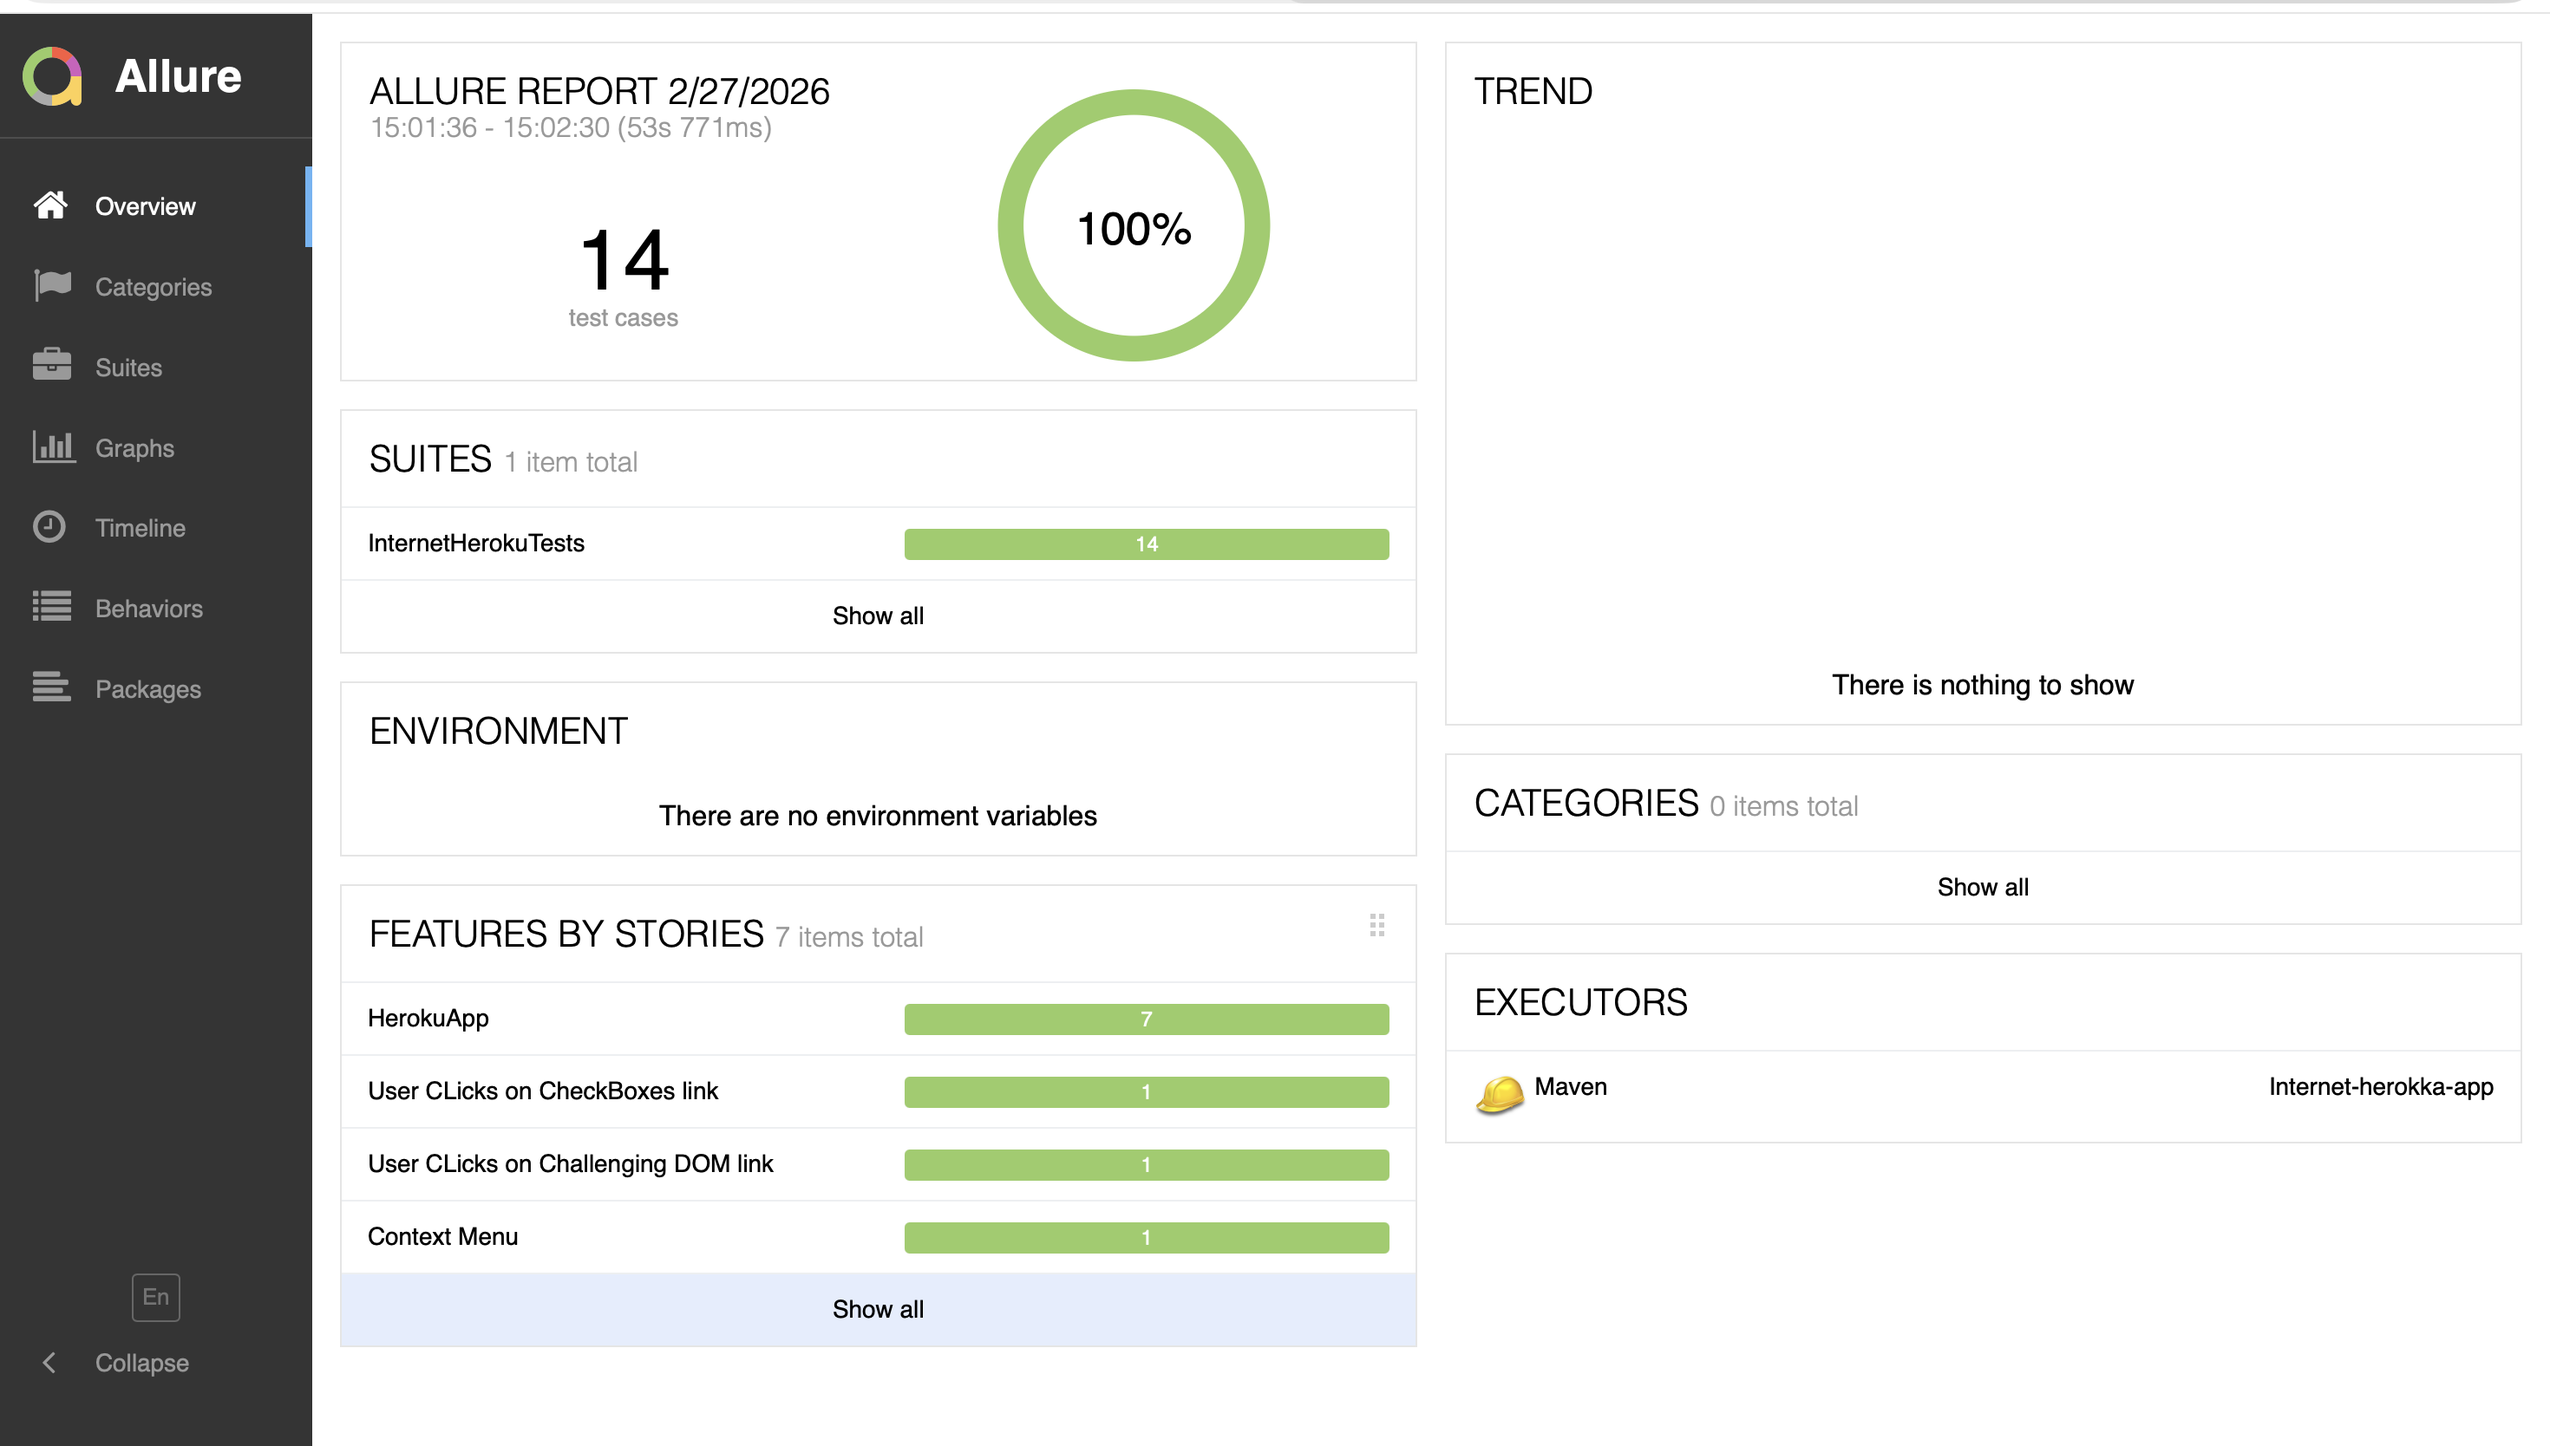
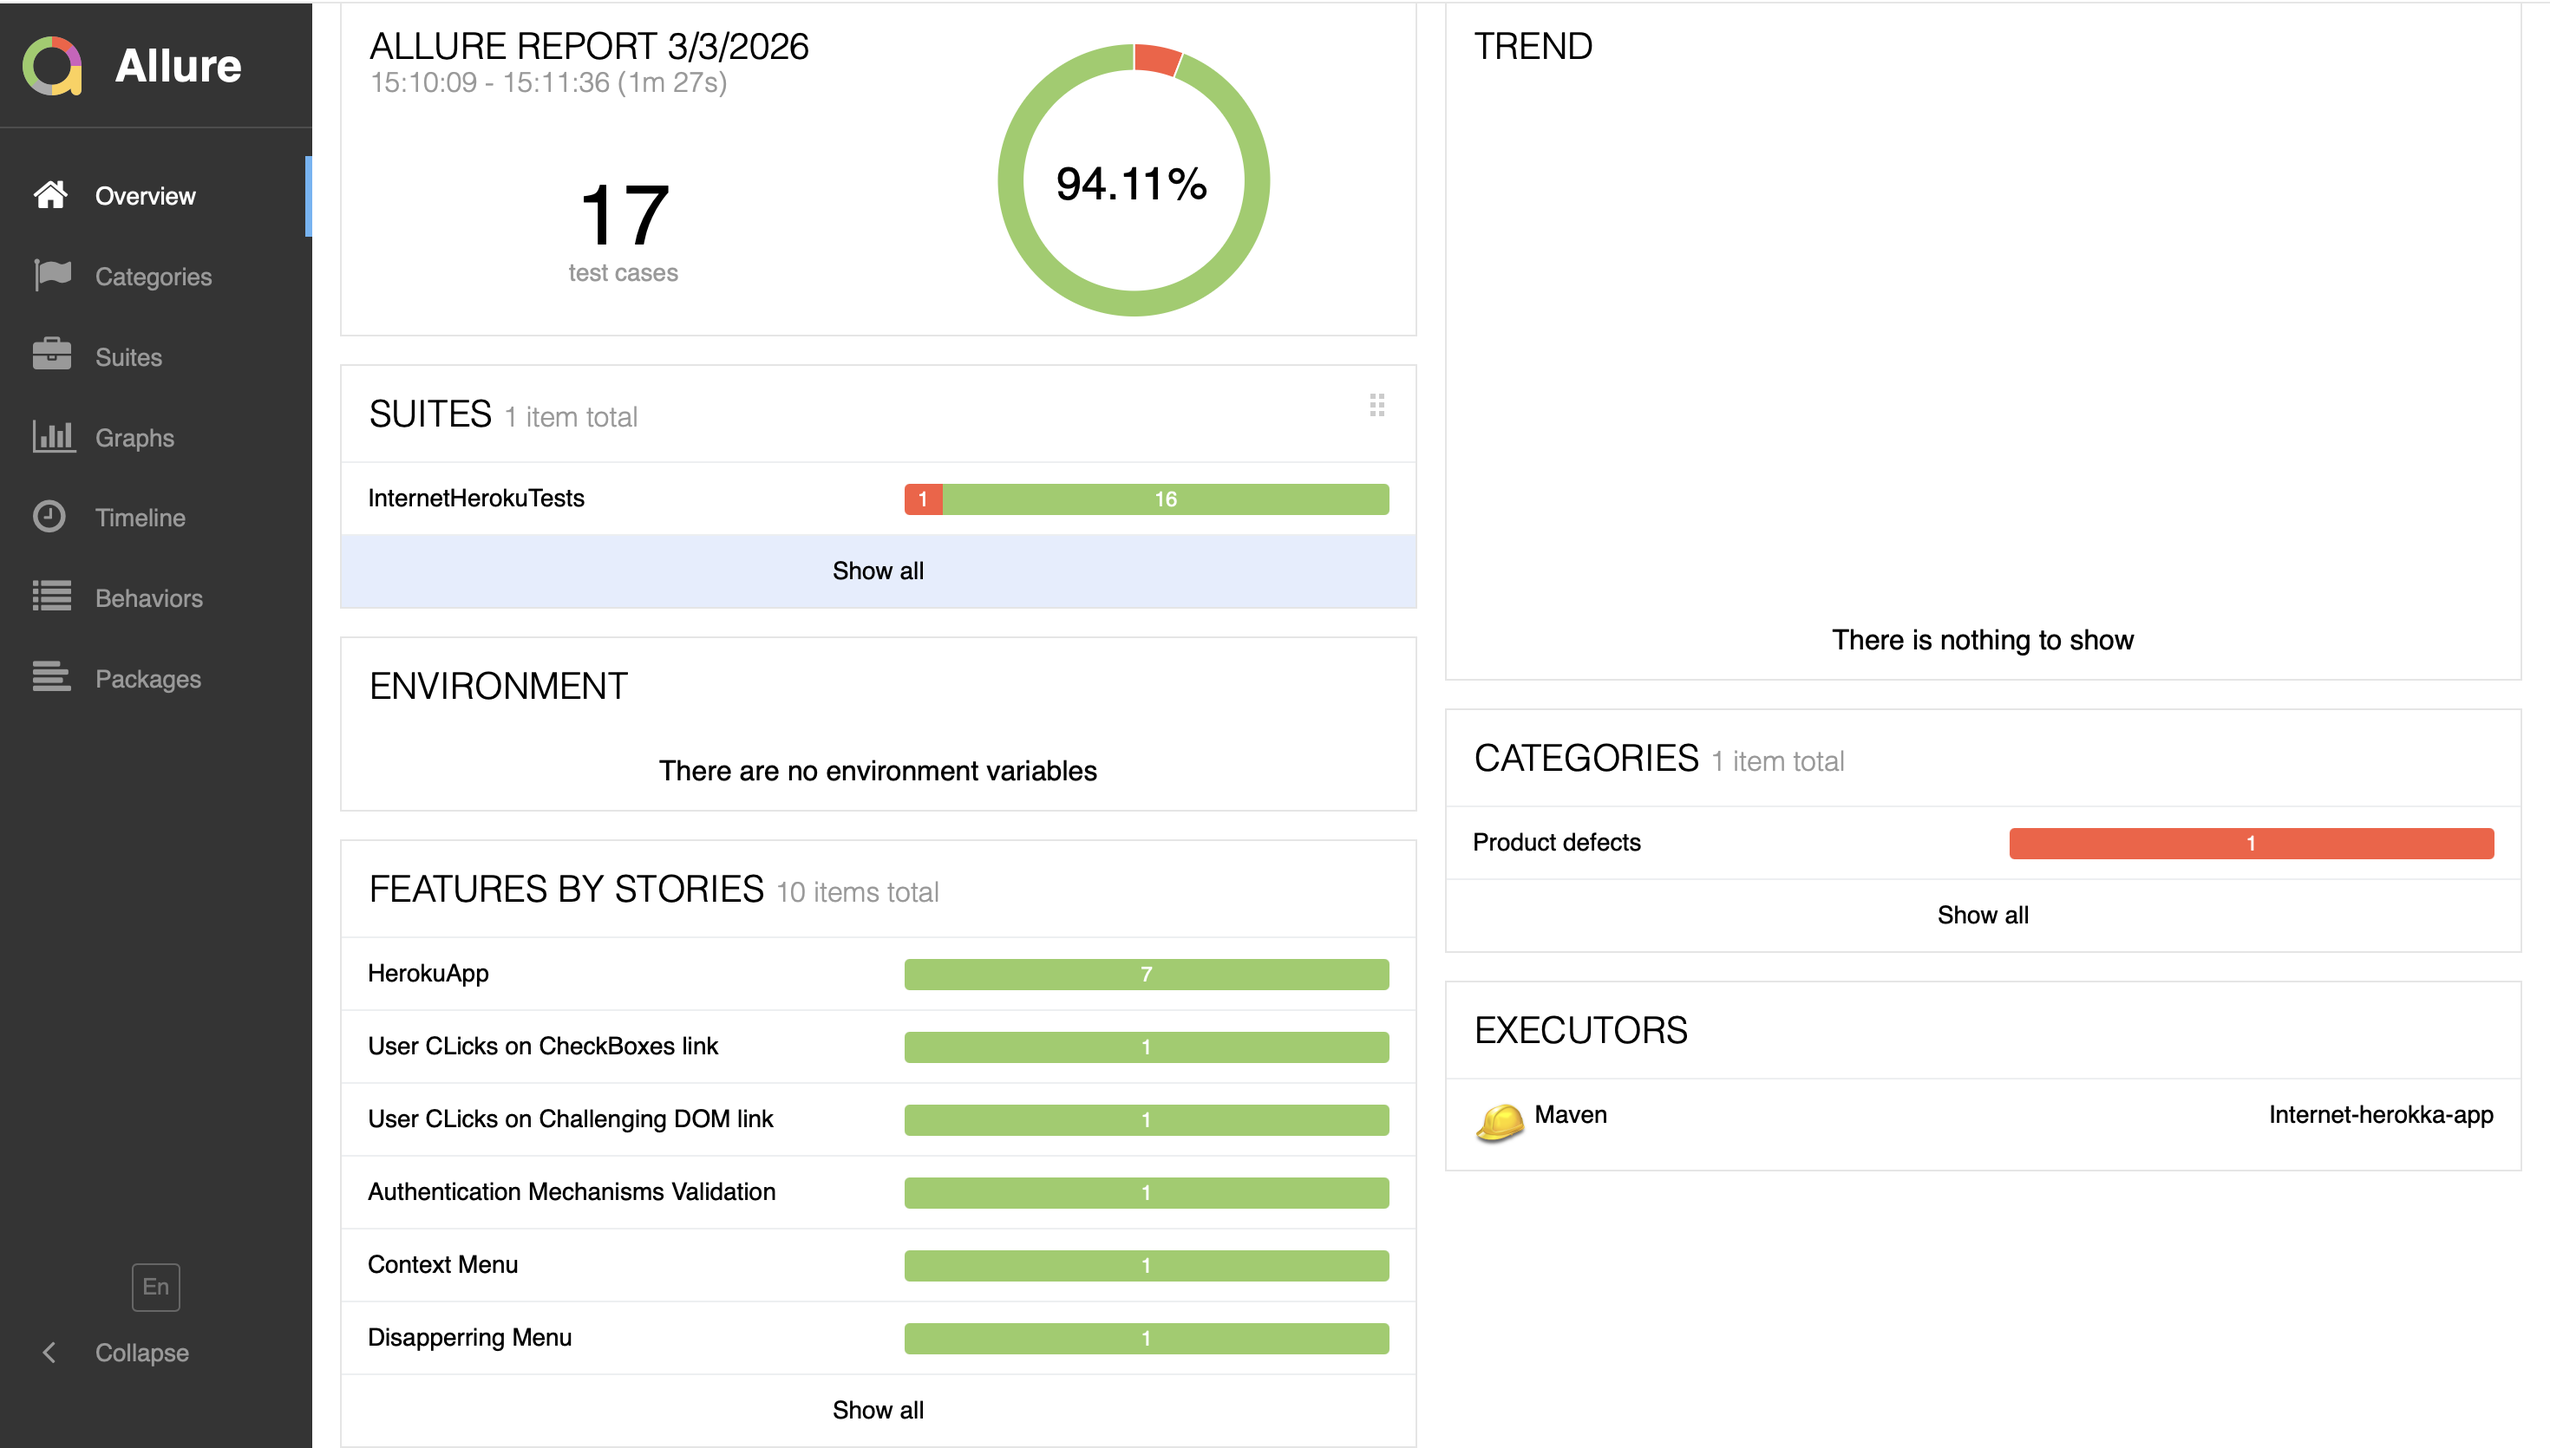
added features dissappearing elements

diff --git a/src/test/java/disappearingElements/DisappearingElementTest.java b/src/test/java/disappearingElements/DisappearingElementTest.java
@@ -1,0 +1,52 @@
+package disappearingElements;
+
+import base.BaseTest;
+import io.qameta.allure.Epic;
+import io.qameta.allure.Feature;
+import org.testng.Assert;
+import org.testng.annotations.BeforeMethod;
+import org.testng.annotations.Test;
+import pages.DisappearingElementPage;
+import pages.HomePage;
+
+import java.util.List;
+
+public class DisappearingElementTest extends BaseTest {
+
+    @BeforeMethod
+    public void goToDisappearingElementsPage(){
+        getDriver().get("https://the-internet.herokuapp.com/");
+
+    }
+@Epic("Disapperring Menu")
+@Feature("User clicks on disaapearing elements")
+    @Test(description = "Test if Gallery element is disappeared")
+    public void clickDisappearingElement()
+    {
+        DisappearingElementPage disappearingElementPage = new HomePage(getDriver()).clickDisappearingElementLink();
+        System.out.println("The list of visible elements are "+disappearingElementPage.getMenuItems());
+
+        List<String> names = disappearingElementPage.getMenuItems();
+        if(!names.contains("Gallery")){
+            System.out.println("Gallery is not displayed");
+        }
+
+        Assert.assertTrue(!names.contains("Gallery"));
+
+    }
+
+    @Test(description = "Test if Gallery element reappears after a refresh")
+    public void clickNotDisappearingElement()
+    {
+        DisappearingElementPage disappearingElementPage = new HomePage(getDriver()).clickDisappearingElementLink();
+        System.out.println("The list of visible elements are "+disappearingElementPage.getMenuItems());
+getDriver().navigate().refresh();
+        List<String> names = disappearingElementPage.getMenuItems();
+        if(names.contains("Gallery")){
+            System.out.println("Gallery is  displayed");
+        }
+
+        Assert.assertTrue(names.contains("Gallery"));
+
+    }
+}

diff --git a/src/test/java/digestAuthentication/DigestAuthenticationTest.java b/src/test/java/digestAuthentication/DigestAuthenticationTest.java
@@ -1,0 +1,37 @@
+package digestAuthentication;
+
+import base.BaseTest;
+import io.qameta.allure.Epic;
+import io.qameta.allure.Feature;
+import io.restassured.RestAssured;
+import io.restassured.response.Response;
+
+import org.testng.Assert;
+import org.testng.annotations.Test;
+/*
+Digest Authentication triggers a browser‑level authentication dialog,
+which is not part of the DOM and cannot be interacted with using
+Selenium locators. Modern browsers also block URL‑embedded credentials for
+security reasons, and Selenium’s DevTools authentication APIs vary
+across versions and are not consistently reliable. Because Digest Auth is a network‑layer protocol,
+validating it through an HTTP client (RestAssured) is the correct, stable, and industry‑standard approach
+ */
+
+public class DigestAuthenticationTest extends BaseTest {
+
+    @Epic("Authentication Mechanisms Validation")
+    @Feature("Digest Authentication Handling")
+    @Test(description = "Ensures Digest Authentication succeeds and returns expected success message")
+    public void digestAuthenticationClicked()
+    {
+        Response response = RestAssured
+                .given() .auth().digest("admin", "admin")
+                .when()
+                .get("https://the-internet.herokuapp.com/digest_auth");
+        Assert.assertEquals(response.statusCode(), 200);
+        Assert.assertTrue(response.asString().contains("Congratulations"));
+
+
+    }
+}
+

diff --git a/src/main/java/pages/DisappearingElementPage.java b/src/main/java/pages/DisappearingElementPage.java
@@ -1,0 +1,35 @@
+package pages;
+
+import org.openqa.selenium.By;
+import org.openqa.selenium.WebDriver;
+import org.openqa.selenium.WebElement;
+import org.openqa.selenium.support.ui.ExpectedConditions;
+import org.openqa.selenium.support.ui.WebDriverWait;
+
+import java.time.Duration;
+import java.util.ArrayList;
+import java.util.List;
+
+public class DisappearingElementPage {
+    private final WebDriver driver;
+    private final WebDriverWait wait;
+
+    private static String ALL_ELEMENTS = "ul li a";
+
+    public DisappearingElementPage(WebDriver driver) {
+        this.driver = driver;
+        this.wait = new WebDriverWait(driver, Duration.ofSeconds(5));
+    }
+
+    public List<String> getMenuItems(){
+        wait.until(ExpectedConditions.visibilityOfAllElementsLocatedBy(By.cssSelector(ALL_ELEMENTS)));
+        List<WebElement> menuItems = driver.findElements(By.cssSelector(ALL_ELEMENTS));
+        List<String> menuItemNames = new ArrayList<>();
+        menuItems.forEach(menuItem -> {
+            menuItemNames.add(menuItem.getText());
+        });
+        return menuItemNames;
+    }
+
+
+}

diff --git a/src/main/java/pages/HomePage.java b/src/main/java/pages/HomePage.java
@@ -15,6 +15,7 @@ public class HomePage {
     private static final String CHALLENGING_DOM = "a[href*='challenging']";
     private static final String CHECK_BOX_LINK = "a[href*='checkboxes']";
     private static final String CONTEXT_MENU_LINK = "a[href*='context']";
+    private static final String DISAPPEARING_ELEMENTS_LINK="a[href*='disappear']";
 
     private WebDriverWait wait;
     public HomePage(WebDriver driver){
@@ -59,6 +60,11 @@ public class HomePage {
         return new ContextMenuPage(driver);
 
     }
+public DisappearingElementPage clickDisappearingElementLink(){
+        wait.until(ExpectedConditions.elementToBeClickable(By.cssSelector(DISAPPEARING_ELEMENTS_LINK))).click();
+        return new DisappearingElementPage(driver);
+
+}
 
 
 }
